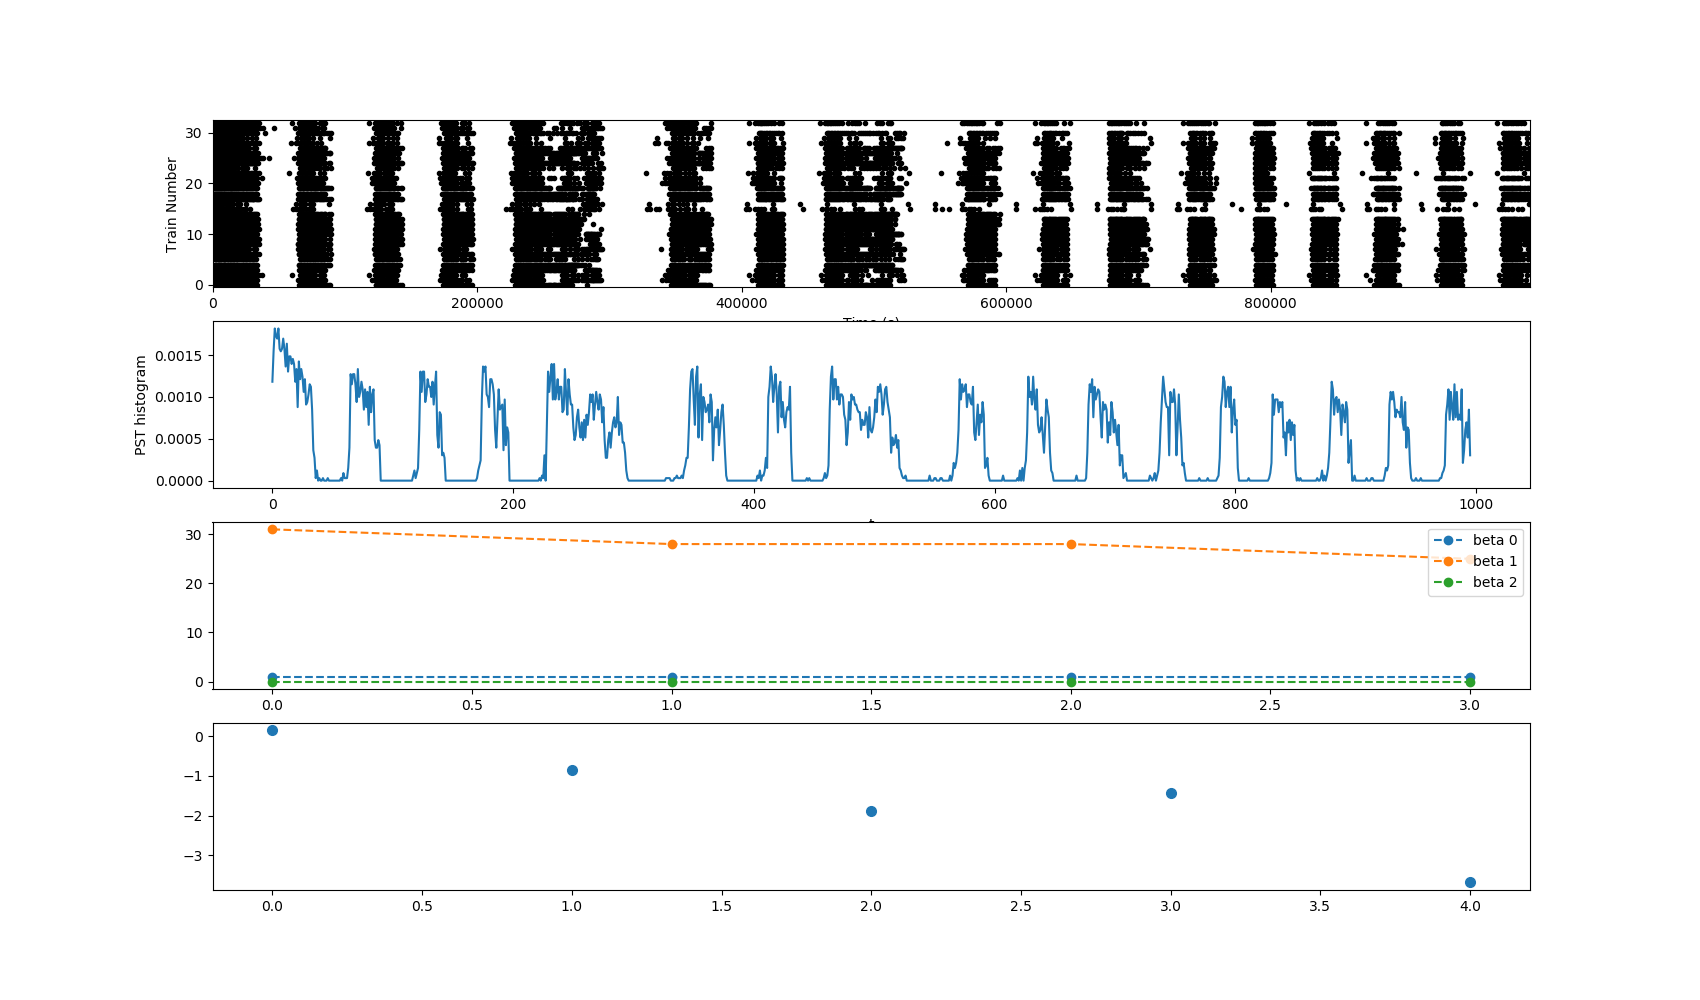
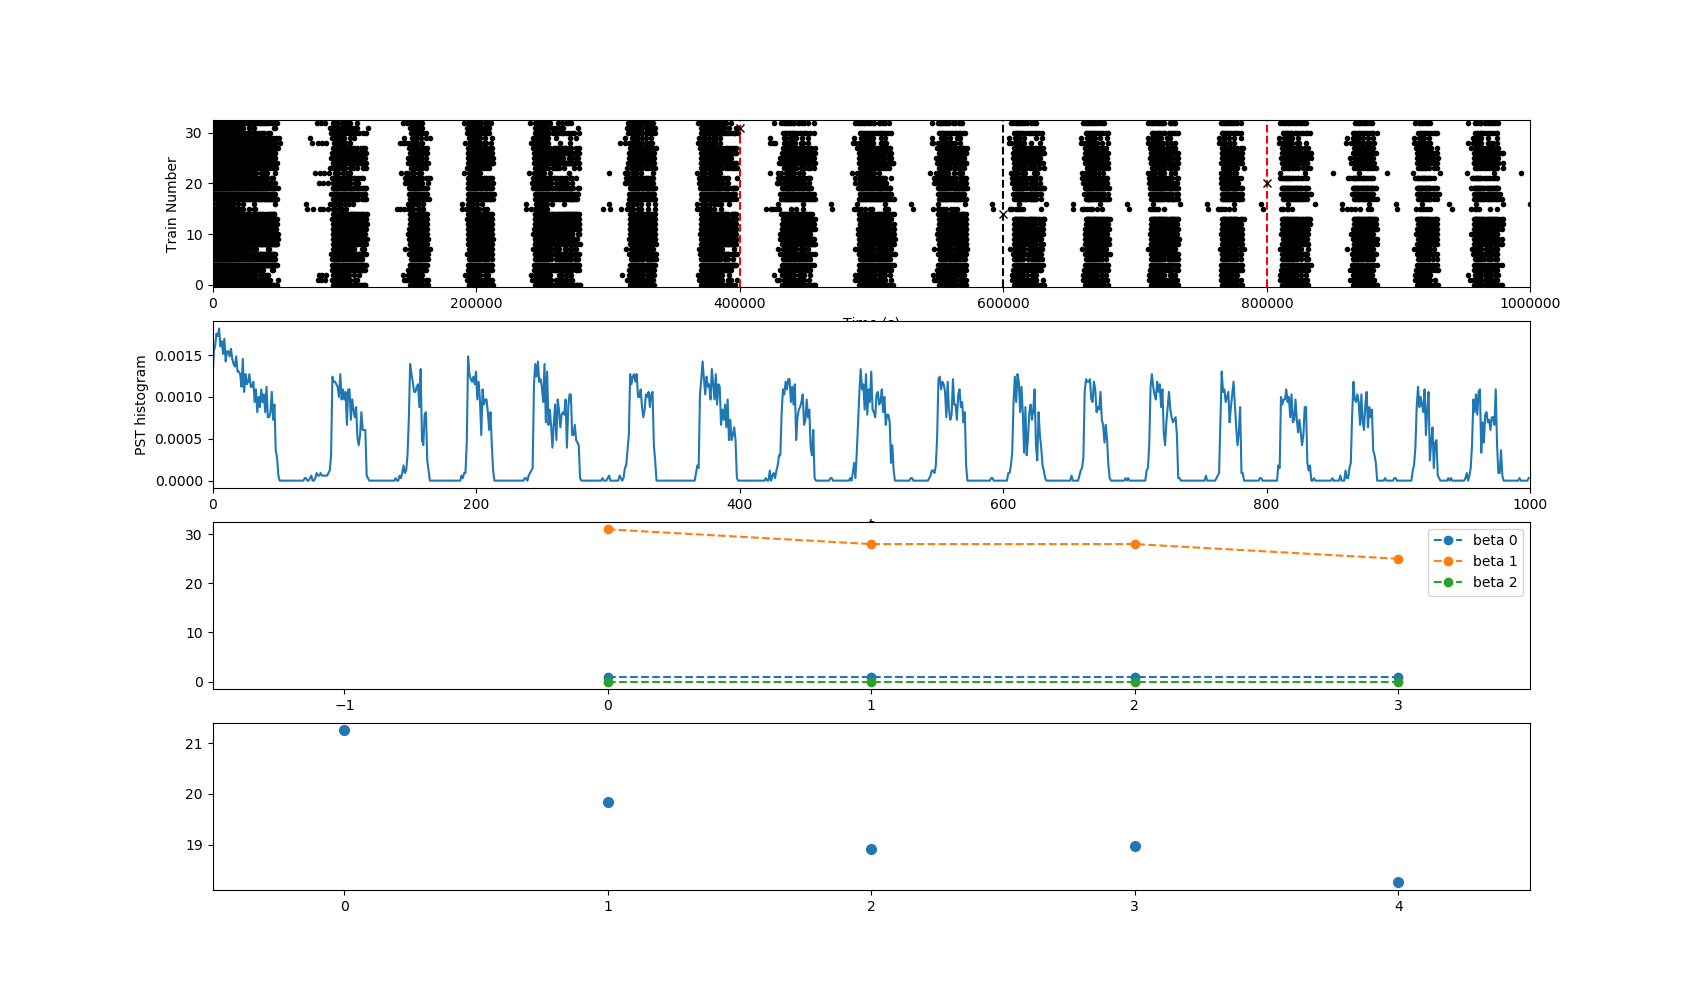
SUCCESS, at least in this run

diff --git a/code/SPIKE/plot.py b/code/SPIKE/plot.py
@@ -19,7 +19,6 @@ homXS = pickle.load(open("storeddata/" + matrix + "-homXS.p", "rb"))
 duration = len(train[0])
 singlerun = duration/(len(homXS)+2)
 
-
 print("--- plotting ---")
 
 # create list of spike times from raster
@@ -35,6 +34,18 @@ st = th.make_trains(spiketimes)
 simulation = plt.figure(figsize=(17,10))
 simulation.add_subplot(4,1,1)
 th.plot_raster(st)
+for i in range(2,duration/singlerun):
+    if(homXS[i-2][1] == 'X'):
+        plt.axvline(x=(i)*singlerun, color='k', linestyle='--')
+    elif(homXS[i-2][1] == 'S'):
+        plt.axvline(x=(i)*singlerun, color='r', linestyle='--')
+    else:
+        plt.axvline(x=(i)*singlerun, color='b', linestyle='--')
+
+    plt.plot(i*singlerun, int(homXS[i-2][0]), marker="x", color="black")
+
+
+
 
 # histogram for spikes
 simulation.add_subplot(4,1,2)
@@ -43,7 +54,7 @@ plt.plot(spikeHist[0])
 sys.stdout.write('\x1b[1A')
 sys.stdout.write('\x1b[2K')
 plt.ylabel("PST histogram")
-# plt.ylim(ymax= 0.07)
+plt.xlim(xmin= 0,xmax=1000)
 plt.xlabel("t")
 
 # betti number plot
@@ -52,6 +63,7 @@ plt.plot(betas[0], linestyle="--", marker="o", label="beta 0")
 plt.plot(betas[1], linestyle="--", marker="o", label="beta 1")
 plt.plot(betas[2], linestyle="--", marker="o", label="beta 2")
 plt.legend(loc='upper right')
+plt.xlim(xmin=-1.5,xmax=len(betas[0])-0.5)
 
 
 # synchrony
@@ -71,9 +83,10 @@ for c in range(1,chunk+1):
 
 sync = []
 for c in range(len(slices)):
-    sync.append(np.average(spk.spike_distance_matrix(slices[c])))
+    sync.append(np.linalg.norm(spk.spike_sync_matrix(slices[c])))
 
 plt.plot(sync, linestyle="", marker="o", markersize="7")
+plt.xlim(xmin=-0.5,xmax=len(homXS)+1.5)
 
 
 

diff --git a/code/SPIKE/hom.py b/code/SPIKE/hom.py
@@ -24,7 +24,7 @@ def getsimps(simpfile):
 
 def getBettis(simpfile):
     simpfile = simpfile + ".csv_directed_output.txt"
-
+    # I don't even use this
 
 
 
